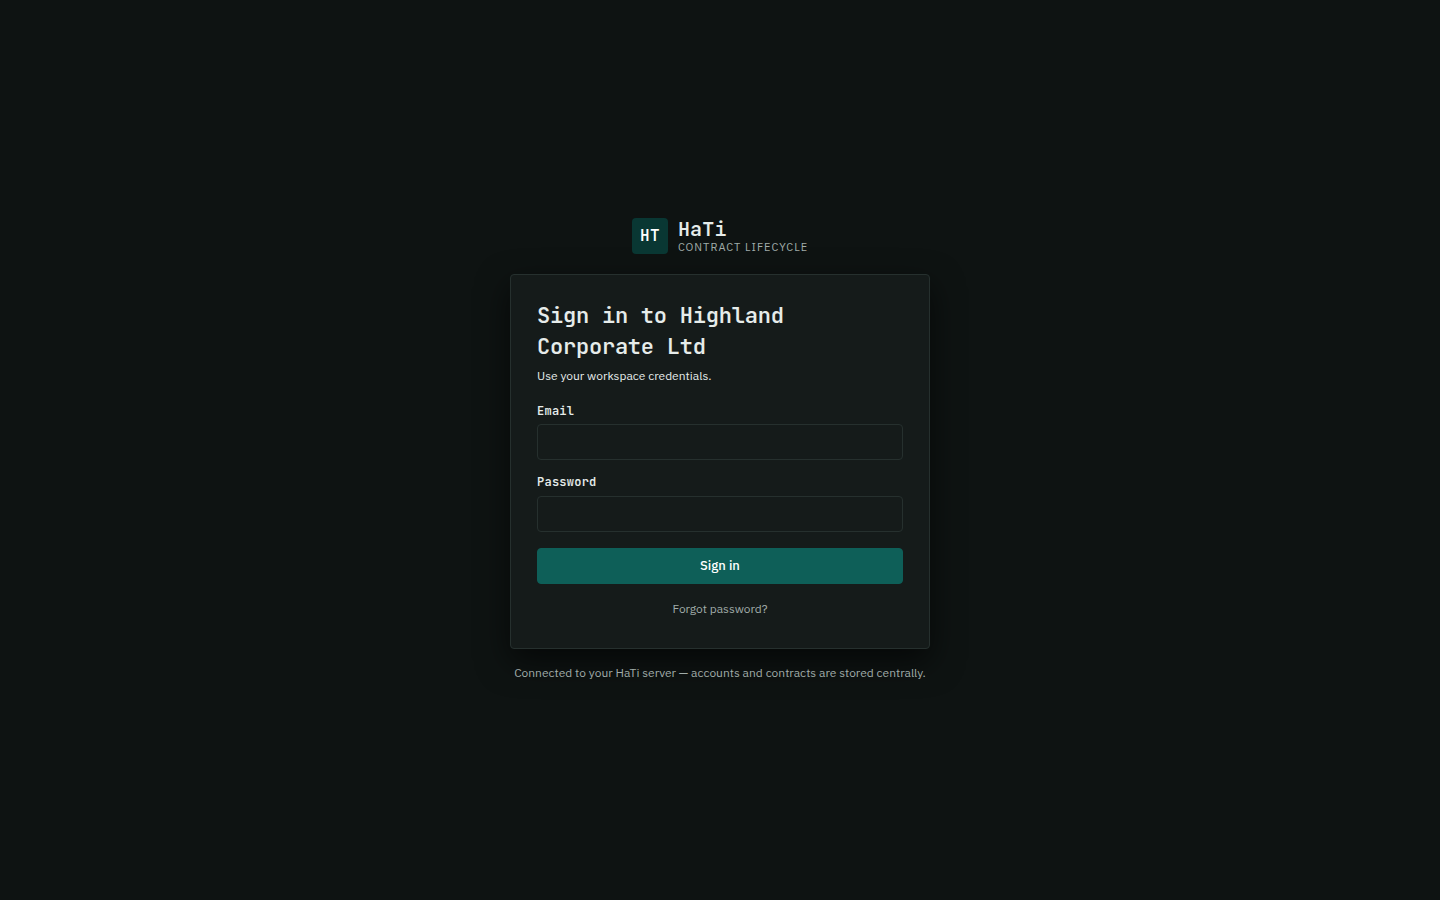
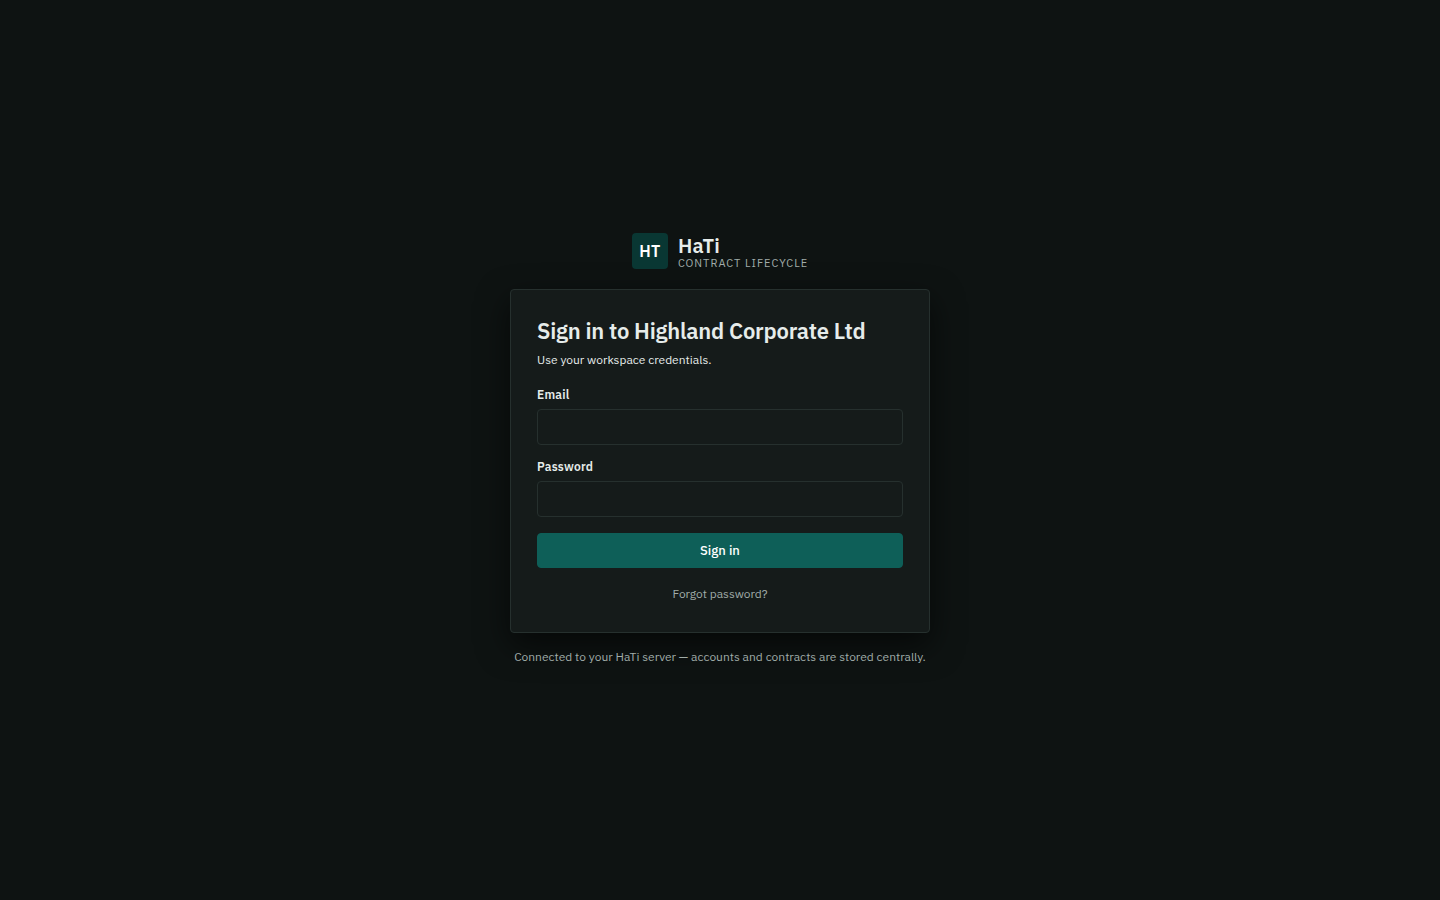
Redesign steps 5–9: the remaining pages take the tokens and the dressing
The negotiate page and the clause editor, the counterparty page, the
Templates book and table, Our standards, Requests, People, the Calendar
(month and horizon), the Obligations worklist, Team & settings and the
six Insights tabs all take the palette, the type ladder, the corners,
the button and tab dressing from the earlier steps; every control on
every one of them is where it was. The Obligations worklist keeps its
layout and behaviour exactly. Insights is design only.

Two things beyond the tokens: the Templates book's library cards wear
their shelf's colour on the same 3px bar the stream cards have always
carried (the owner asked it of the artifact; reverses the 29 Aug "none
on a library card"), and --font-mono — JetBrains Mono now — is for
DATA: the fourteen captions that borrowed it for letter-spacing, the
login page's title and mark and one settings chip read the heading
face instead. Ids, dates, counts, money, links and codes keep the mono.

prototype/redesign-shots/after/ carries every page in both themes, the
negotiate page and the clause editor staged with an ask from each side.

Claude-Session: https://claude.ai/code/session_01MJDqh769WWjqop2BXt8erZ

diff --git a/js/core.js b/js/core.js
@@ -1720,9 +1720,9 @@ function renderAuth(mode){
   <div style="min-height:100vh;display:grid;place-items:center;background:var(--color-bg);padding:var(--s-10) var(--s-4);">
     <div style="width:100%;max-width:420px;">
       <div style="display:flex;align-items:center;gap:10px;justify-content:center;margin-bottom:20px;">
-        <div style="width:36px;height:36px;background:var(--color-accent-800);color:#fff;display:grid;place-items:center;font-family:var(--font-mono);font-weight:var(--w-strong);font-size:var(--t-section);letter-spacing:.02em;border-radius:var(--radius);">HT</div>
+        <div style="width:36px;height:36px;background:var(--color-accent-800);color:#fff;display:grid;place-items:center;font-family:var(--font-heading);font-weight:var(--w-strong);font-size:var(--t-section);letter-spacing:.02em;border-radius:var(--radius);">HT</div>
         <div style="line-height:1.15;">
-          <div style="font-family:var(--font-mono);font-weight:var(--w-strong);font-size:20px;letter-spacing:.01em;color:var(--color-text);">HaTi</div>
+          <div style="font-family:var(--font-heading);font-weight:var(--w-strong);font-size:20px;letter-spacing:.01em;color:var(--color-text);">HaTi</div>
           <div style="font-size:var(--t-micro);letter-spacing:.09em;text-transform:uppercase;color:var(--color-neutral-600);">${i18t('co_clm')}</div>
         </div>
       </div>
@@ -1732,9 +1732,11 @@ function renderAuth(mode){
   </div>`;
   const input=(id,label,type='text',ph='')=>`
     <label style="display:block;margin-bottom:14px;">
-      <span style="display:block;font-size:var(--t-meta);font-weight:var(--w-strong);color:var(--color-neutral-700);margin-bottom:5px;font-family:var(--font-mono);letter-spacing:.02em;">${label}</span>
+      <span style="display:block;font-size:var(--t-meta);font-weight:var(--w-strong);color:var(--color-neutral-700);margin-bottom:5px;font-family:var(--font-heading);letter-spacing:.02em;">${label}</span>
       <input id="${id}" type="${type}" placeholder="${ph}" style="width:100%;min-height:36px;border:1px solid var(--color-divider);background:var(--color-surface);border-radius:var(--radius);padding:7px 11px;font-size:var(--t-body);font-family:var(--font-body);color:var(--color-text);outline:none;"/></label>`;
-  const H1='font-family:var(--font-mono);font-weight:var(--w-strong);font-size:22px;letter-spacing:-0.01em;color:var(--color-text);margin:0;';
+  /* 20 Sep 2026: the heading face — --font-mono is JetBrains Mono now and is
+     for DATA (ids, dates, counts, money), never a title or a caption. */
+  const H1='font-family:var(--font-heading);font-weight:var(--w-strong);font-size:22px;letter-spacing:-0.01em;color:var(--color-text);margin:0;';
   const SUB='font-size:var(--t-meta);color:var(--color-neutral-700);margin:var(--s-1) 0 18px;line-height:1.5;';
   const PBTN='width:100%;padding:9px;font-size:var(--t-body);margin-top:2px;';
   /* min-height is WCAG 2.5.8 (target size, AA): measured at 366x17px, this is
@@ -1757,7 +1759,7 @@ function renderAuth(mode){
            were always the default market's, and a Swedish pilot had to switch
            afterwards and re-read everything it had just been shown. */''}
       <label style="display:block;margin-bottom:14px;">
-        <span style="display:block;font-size:var(--t-meta);font-weight:var(--w-strong);color:var(--color-neutral-700);margin-bottom:5px;font-family:var(--font-mono);letter-spacing:.02em;">${i18t('co_where_you_operate')}</span>
+        <span style="display:block;font-size:var(--t-meta);font-weight:var(--w-strong);color:var(--color-neutral-700);margin-bottom:5px;font-family:var(--font-heading);letter-spacing:.02em;">${i18t('co_where_you_operate')}</span>
         <select id="su-market" style="width:100%;min-height:36px;border:1px solid var(--color-divider);background:var(--color-surface);border-radius:var(--radius);padding:7px 11px;font-size:var(--t-body);font-family:var(--font-body);color:var(--color-text);outline:none;">
           ${jxList().map(p=>`<option value="${p.id}"${p.id===jxId()?' selected':''}>${p.name}</option>`).join('')}
         </select>
@@ -3497,7 +3499,7 @@ function shareAdviseBlockHtml(c, purposeSel){
     : `<p style="margin:6px 0 0;font-size:var(--t-label);color:var(--color-neutral-600);line-height:1.5">${
         esc(i18t('asl_no_clauses'))}</p>`;
   return `<div id="share-advise"${on?'':' class="hidden"'} style="margin:0 0 14px">
-    <span style="display:block;font-size:var(--t-label);font-weight:var(--w-strong);color:var(--color-neutral-700);margin-bottom:2px;font-family:var(--font-mono);letter-spacing:.02em">${
+    <span style="display:block;font-size:var(--t-label);font-weight:var(--w-strong);color:var(--color-neutral-700);margin-bottom:2px;font-family:var(--font-heading);letter-spacing:.02em">${
       esc(i18t('asl_which_clauses'))}</span>
     <div id="share-advise-clauses" style="max-height:168px;overflow:auto">${rows}</div>
     <p style="margin:8px 0 0;font-size:var(--t-label);color:var(--color-neutral-600);line-height:1.5">${
@@ -3526,7 +3528,7 @@ function sharePurposePickerHtml(c, sel, o={}){
         color:${on?'#fff':'var(--color-neutral-700)'};border-radius:var(--radius)">${m.label}</button>`; };
     const m=SHARE_PURPOSE_COPY[sel]||SHARE_PURPOSE_COPY.negotiate;
     return `<div id="share-purpose" style="margin:0 0 14px">
-      <span style="display:block;font-size:var(--t-label);font-weight:var(--w-strong);color:var(--color-neutral-700);margin-bottom:6px;font-family:var(--font-mono);letter-spacing:.02em">${i18t('co_what_round_for')}</span>
+      <span style="display:block;font-size:var(--t-label);font-weight:var(--w-strong);color:var(--color-neutral-700);margin-bottom:6px;font-family:var(--font-heading);letter-spacing:.02em">${i18t('co_what_round_for')}</span>
       ${''/* ---- THE FIFTH PURPOSE SITS BESIDE THE OTHER FOUR (upgrade 9) ----
            18 Sep 2026, built to the drawing. A first pass gave the adviser link
            its own door on the More menu, reasoning that every answer on this
@@ -3551,7 +3553,7 @@ function sharePurposePickerHtml(c, sel, o={}){
       <span style="display:block;font-size:var(--t-label);line-height:1.5;color:var(--color-neutral-600)">${m.blurb}</span>
     </button>`; };
   return `<div id="share-purpose" style="margin:0 0 14px">
-    <span style="display:block;font-size:var(--t-label);font-weight:var(--w-strong);color:var(--color-neutral-700);margin-bottom:6px;font-family:var(--font-mono);letter-spacing:.02em">${i18t('co_what_link_for')}</span>
+    <span style="display:block;font-size:var(--t-label);font-weight:var(--w-strong);color:var(--color-neutral-700);margin-bottom:6px;font-family:var(--font-heading);letter-spacing:.02em">${i18t('co_what_link_for')}</span>
     ${''/* Sign leads: most sends are "here it is, sign it" (Young, 02 Aug
          2026). The default SELECTION still follows the contract's reality —
          defaultSharePurpose keeps Negotiate preselected while changes are
@@ -3586,7 +3588,7 @@ function sharePurposePickerHtml(c, sel, o={}){
    it sits under the recipient, on the two-screen shape where it always was.
    The id stays `sh-summary` so every reader of it is unchanged. */
 function shareNoteBoxHtml(c, hist){
-  return `<label style="display:block"><span id="sh-summary-label" style="display:block;font-size:var(--t-label);font-weight:var(--w-strong);color:var(--color-neutral-700);margin-bottom:var(--s-1);font-family:var(--font-mono);letter-spacing:.02em;">${
+  return `<label style="display:block"><span id="sh-summary-label" style="display:block;font-size:var(--t-label);font-weight:var(--w-strong);color:var(--color-neutral-700);margin-bottom:var(--s-1);font-family:var(--font-heading);letter-spacing:.02em;">${
         hist?i18t('co_note_with_record')
             :i18t('co_note_to', { who:esc(c.counterparty||i18t('co_them')) })}</span>
         <textarea id="sh-summary" rows="3" style="${HATI_FLD}" placeholder="${

diff --git a/js/views/adviceportal.js b/js/views/adviceportal.js
@@ -70,7 +70,7 @@ const advicePortalShell = inner => `
 function renderAdviceIntake(){
   const root=document.getElementById('share-root');
   const inputStyle='width:100%;min-height:36px;border:1px solid var(--color-divider);background:var(--color-surface);border-radius:var(--radius);padding:7px 11px;font-size:var(--t-body);font-family:var(--font-body);color:var(--color-text);outline:none';
-  const field=(id,label,ph,type='text')=>`<label style="display:block;margin-bottom:10px"><span style="display:block;font-size:var(--t-label);font-weight:var(--w-strong);color:var(--color-neutral-700);margin-bottom:var(--s-1);font-family:var(--font-mono);letter-spacing:.02em">${label}</span><input id="${id}" type="${type}" placeholder="${ph}" style="${inputStyle}"/></label>`;
+  const field=(id,label,ph,type='text')=>`<label style="display:block;margin-bottom:10px"><span style="display:block;font-size:var(--t-label);font-weight:var(--w-strong);color:var(--color-neutral-700);margin-bottom:var(--s-1);font-family:var(--font-heading);letter-spacing:.02em">${label}</span><input id="${id}" type="${type}" placeholder="${ph}" style="${inputStyle}"/></label>`;
   const svcCard=s=>{
     const r=adviceRateFor(s.id);
     return `
@@ -103,7 +103,7 @@ function renderAdviceIntake(){
         ${field('ap-email','Work email *','you@company.co.ke','email')}
         ${field('ap-company','Company','e.g. Tamu Beverages Ltd')}
         ${field('ap-contract','Contract concerned','e.g. Distribution Agreement — Coast Region')}
-        <label style="display:block;margin-bottom:var(--s-3)"><span style="display:block;font-size:var(--t-label);font-weight:var(--w-strong);color:var(--color-neutral-700);margin-bottom:var(--s-1);font-family:var(--font-mono);letter-spacing:.02em">${i18t('apo_describe')}</span>
+        <label style="display:block;margin-bottom:var(--s-3)"><span style="display:block;font-size:var(--t-label);font-weight:var(--w-strong);color:var(--color-neutral-700);margin-bottom:var(--s-1);font-family:var(--font-heading);letter-spacing:.02em">${i18t('apo_describe')}</span>
           <textarea id="ap-desc" rows="4" placeholder="${esc(i18t('po_ph_advice_example'))}" style="${inputStyle}min-height:0"></textarea></label>
         <label style="display:flex;align-items:flex-start;gap:9px;font-size:var(--t-meta);color:var(--color-neutral-700);margin-bottom:14px;line-height:1.45"><input id="ap-priority" type="checkbox" style="width:15px;height:15px;accent-color:var(--color-accent);margin-top:1px"/><span><strong>${i18t('apo_priority')}</strong> ${i18t('apo_priority_note')}</span></label>
         <button id="ap-go" class="ui-btn ui-btn-primary" style="width:100%;padding:10px;font-size:var(--t-body)">${icon('send','w-4 h-4')} Submit request</button>

diff --git a/js/views/library.js b/js/views/library.js
@@ -2009,8 +2009,19 @@ function tplOverviewData(){
      which is exactly how the table's own stream filter behaves, and the two
      agreeing is the property that matters. */
   const bucket=(sec,key,id,tone,own)=>({ sec, key, id, tone, ...tplOvRoll(own) });
+  /* A LIBRARY CARD WEARS ITS SHELF'S COLOUR (Young asked it of the artifact,
+     20 Sep 2026: "Add color to the top of ... your Library cards in the
+     templates tab", and the redesign order builds to that artifact). The
+     stream cards have always carried the stream's own colour on the same 3px
+     bar; the shelves take the product's own tones — the accent for the
+     company's paper, amber for the other side's, steel for HaTi's, the
+     Marketing stream's violet for the samples, the page ink for the whole
+     shelf — read from tokens where a token exists. Reverses the 29 Aug "none
+     on a library card" on the owner's later word. */
+  const LIB_TONE={ company:'var(--accent-solid)', cp:'var(--st-amber-dot)', builtin:'var(--st-steel-dot)',
+    sample:(typeof FOLDERS==='object'&&FOLDERS&&FOLDERS.mktg&&FOLDERS.mktg.color)||'var(--color-neutral-500)', all:'var(--color-text)' };
   const buckets=[
-    ...TPL_OV_LIBS.map(k=>bucket('library', k, k, null,
+    ...TPL_OV_LIBS.map(k=>bucket('library', k, k, LIB_TONE[k]||null,
       k==='all' ? cards : cards.filter(c=>c.kind===k))),
     ...(typeof FOLDERS==='object' && FOLDERS ? Object.values(FOLDERS) : [])
       .map(f=>bucket('stream', 'stream:'+f.id, f.id,
@@ -2241,7 +2252,7 @@ function tplHealthHtml(d){
    markup is exactly how two screens come to disagree about what a bucket's
    figures are — THE CLOTHES FOLLOW THE BUILDER. Lifted whole, not rewritten:
    every declaration and every note below is the wall's own. */
-const TPL_OV_CARD='background:var(--color-surface);border:1px solid var(--color-divider);border-radius:var(--radius);box-shadow:var(--shadow-sm)';
+const TPL_OV_CARD='background:var(--color-surface);border:1px solid var(--color-divider);border-radius:var(--radius-lg,var(--radius));box-shadow:var(--shadow-sm)';
 const TPL_OV_HEAD='font-size:var(--t-micro);font-weight:var(--w-title);letter-spacing:.09em;text-transform:uppercase;color:var(--color-neutral-600)';
 const TPL_OV_LBL='font-size:var(--t-label);font-weight:var(--w-body);color:var(--color-neutral-600);line-height:1.45';
 const TPL_OV_FIG='font-size:var(--t-card);font-weight:var(--w-title);font-variant-numeric:tabular-nums;line-height:1.3;margin-top:1px';

diff --git a/js/wizard.js b/js/wizard.js
@@ -340,7 +340,7 @@ function openWizard(preTid, prefill){
       if(!m || String(m).trim().toLowerCase()===String(v.label||'').trim().toLowerCase()) return '';
       return `<span style="font-weight:var(--w-body);color:var(--color-neutral-500);text-transform:none;letter-spacing:0"> → ${m}</span>`; };
     const input=v=>{ const id='wz-'+String(v.key).replace(/[:]/g,'_');
-      const lbl=`<span style="display:block;font-size:var(--t-label);font-weight:var(--w-strong);color:var(--color-neutral-700);margin-bottom:var(--s-1);font-family:var(--font-mono);letter-spacing:.02em;">${v.label}${v.required?' <span style="color:var(--st-ruby-fg)">*</span>':''}${mapNote(v)}</span>`;
+      const lbl=`<span style="display:block;font-size:var(--t-label);font-weight:var(--w-strong);color:var(--color-neutral-700);margin-bottom:var(--s-1);font-family:var(--font-heading);letter-spacing:.02em;">${v.label}${v.required?' <span style="color:var(--st-ruby-fg)">*</span>':''}${mapNote(v)}</span>`;
       /* ---- A VALUE STREAM IS DRAWN BY THE PRODUCT'S OWN LIST (18 Sep 2026)
          ---- folderOptionsHtml carries the "+ New value stream" sentinel and
          bindFolderSelect answers it, so this door offers what every other
@@ -374,7 +374,7 @@ function openWizard(preTid, prefill){
                Send. Three times for one fact, in one sitting. Once it is on the
                contract the strip never appears and the send goes straight out. */}
         <label style="display:block;">
-          <span style="display:block;font-size:var(--t-label);font-weight:var(--w-strong);color:var(--color-neutral-700);margin-bottom:var(--s-1);font-family:var(--font-mono);letter-spacing:.02em;">${i18t('wz_their_email')}</span>
+          <span style="display:block;font-size:var(--t-label);font-weight:var(--w-strong);color:var(--color-neutral-700);margin-bottom:var(--s-1);font-family:var(--font-heading);letter-spacing:.02em;">${i18t('wz_their_email')}</span>
           <input id="wz-cpemail" type="email" placeholder="${(typeof jxEg==='function'&&jxEg('theirEmail'))||'them@company.co.ke'}" style="width:100%;min-height:36px;border:1px solid var(--color-divider);background:var(--color-surface);border-radius:var(--radius);padding:7px 11px;font-size:var(--t-body);font-family:var(--font-body);color:var(--color-text);outline:none;"/></label>
       </div>
       ${_pv?fillPreviewPaneHtml(vars.filter(v=>!String(v.def||'').trim()).length):''}

diff --git a/js/views/portal.js b/js/views/portal.js
@@ -3598,7 +3598,7 @@ function renderSharePortal(p, opts={}){
   if(c.templateForm && !portalExecuted() && /\{\{/.test(String(c.redlineText||'')) && window.templateFormDocHtml)
     c.redlineText=templateFormDocHtml(c.templateForm);
   const input=(id,label,ph)=>`
-    <label style="display:block;margin-bottom:10px;"><span style="display:block;font-size:var(--t-label);font-weight:var(--w-strong);color:var(--color-neutral-700);margin-bottom:var(--s-1);font-family:var(--font-mono);letter-spacing:.02em;">${label}</span>
+    <label style="display:block;margin-bottom:10px;"><span style="display:block;font-size:var(--t-label);font-weight:var(--w-strong);color:var(--color-neutral-700);margin-bottom:var(--s-1);font-family:var(--font-heading);letter-spacing:.02em;">${label}</span>
     <input id="${id}" type="text" placeholder="${ph}" style="width:100%;min-height:36px;border:1px solid var(--color-divider);background:var(--color-surface);border-radius:var(--radius);padding:7px 11px;font-size:var(--t-body);font-family:var(--font-body);color:var(--color-text);outline:none;"/></label>`;
   const TA='width:100%;border:1px solid var(--color-divider);background:var(--color-surface);border-radius:var(--radius);padding:var(--s-2) 11px;font-size:var(--t-body);font-family:var(--font-body);color:var(--color-text);outline:none;';
   root.innerHTML=`
@@ -3676,7 +3676,7 @@ function renderSharePortal(p, opts={}){
         ${input('pt-name','Full name *','e.g. Grace Njeri')}
         ${input('pt-title','Title / role','e.g. Legal Counsel')}
         ${input('pt-email','Work email','you@company.co.ke')}
-        <label style="display:block;margin-bottom:var(--s-3);"><span style="display:block;font-size:var(--t-label);font-weight:var(--w-strong);color:var(--color-neutral-700);margin-bottom:var(--s-1);font-family:var(--font-mono);letter-spacing:.02em;">${i18t('po_comment')}</span>
+        <label style="display:block;margin-bottom:var(--s-3);"><span style="display:block;font-size:var(--t-label);font-weight:var(--w-strong);color:var(--color-neutral-700);margin-bottom:var(--s-1);font-family:var(--font-heading);letter-spacing:.02em;">${i18t('po_comment')}</span>
         <textarea id="pt-comment" rows="3" placeholder="${i18t('po_optional_for_signing')}" style="${TA}"></textarea></label>
         ${''/* ---- "PROPOSE A DIFFERENT VALUE" IS GONE (removed 2026-08-11, on
                request, for every contract) ----

diff --git a/js/views/settings.js b/js/views/settings.js
@@ -4220,7 +4220,7 @@ function renderPlaybookView(){
     <div style="margin-bottom:${baseline?'12px':'8px'};border:1px solid ${baseline?'var(--color-accent-300)':'var(--color-divider)'};border-left:3px solid ${baseline?'var(--color-accent)':'var(--color-divider)'};border-radius:var(--radius);background:${baseline?'var(--color-accent-100)':'var(--color-surface)'};padding:${baseline?'11px 13px':'10px 12px'}">
       <div style="display:flex;align-items:center;gap:var(--s-2);margin-bottom:${baseline?'2px':'6px'}">
         <span style="font-size:var(--t-meta);font-weight:${baseline?700:600};color:${baseline?'var(--color-accent-900)':'var(--color-text)'}">${PB_ESC(label)}</span>
-        ${baseline?`<span style="font-size:var(--t-figure);font-family:var(--font-mono);letter-spacing:.06em;text-transform:uppercase;font-weight:var(--w-title);color:#fff;background:var(--color-accent);border-radius:var(--radius);padding:2px var(--s-2)">${i18t('set_applies_all')}</span>`:''}
+        ${baseline?`<span style="font-size:var(--t-figure);font-family:var(--font-heading);letter-spacing:.06em;text-transform:uppercase;font-weight:var(--w-title);color:#fff;background:var(--color-accent);border-radius:var(--radius);padding:2px var(--s-2)">${i18t('set_applies_all')}</span>`:''}
         ${canEditPb?`<span style="margin-left:auto;display:flex;gap:10px;font-size:var(--t-label);font-weight:var(--w-strong)">
           <button data-pb-edit="${key}" style="background:none;border:0;cursor:pointer;color:var(--accent-ink-700)">${i18t('set_edit_lower')}</button>
           ${removable?`<button data-pb-del="${key}" style="background:none;border:0;cursor:pointer;color:var(--st-ruby-dot)">${i18t('set_remove_lower')}</button>`:''}

diff --git a/js/signature.js b/js/signature.js
@@ -70,7 +70,7 @@ function openSignaturePad(opts={}){
           </div>
           <p style="font-size:var(--t-meta);color:${N6};margin:6px 0 var(--s-3);line-height:1.5;">${i18t('si_draw_type_upload')}</p>
           <div id="sig-tabs" style="display:flex;gap:var(--s-1);border-bottom:1px solid ${C};">
-            ${['draw','type','upload'].map((k,i)=>`<button data-sig-tab="${k}" style="flex:0 0 auto;padding:var(--s-2) 14px;font:inherit;font-size:var(--t-body);font-weight:var(--w-strong);font-family:var(--font-mono);letter-spacing:.02em;cursor:pointer;background:none;border:0;border-bottom:2px solid transparent;color:${N6};">${k==='draw'?'✎ Draw':k==='type'?'⌨ Type':'⭱ Upload'}</button>`).join('')}
+            ${['draw','type','upload'].map((k,i)=>`<button data-sig-tab="${k}" style="flex:0 0 auto;padding:var(--s-2) 14px;font:inherit;font-size:var(--t-body);font-weight:var(--w-strong);font-family:var(--font-heading);letter-spacing:.02em;cursor:pointer;background:none;border:0;border-bottom:2px solid transparent;color:${N6};">${k==='draw'?'✎ Draw':k==='type'?'⌨ Type':'⭱ Upload'}</button>`).join('')}
             ${saved?`<button data-sig-tab="saved" style="margin-left:auto;padding:var(--s-2) 14px;font:inherit;font-size:var(--t-body);font-weight:var(--w-strong);font-family:var(--font-mono);cursor:pointer;background:none;border:0;border-bottom:2px solid transparent;color:${N6};">★ Saved</button>`:''}
           </div>
         </div>

diff --git a/js/views/negotiation-css.js b/js/views/negotiation-css.js
@@ -2783,7 +2783,7 @@ function redlineLayoutCss(){
   .redline-page .rl-askrv-bd{flex:1;min-width:0;padding-left:calc(9px * var(--doc-scale,1))}
   .redline-page .rl-askrv-who{display:block;font-size:calc(11px * var(--doc-scale,1));
     color:var(--color-neutral-600);margin-bottom:calc(4px * var(--doc-scale,1))}
-  .redline-page .rl-askrv-who b{color:var(--color-neutral-700);font-family:var(--font-mono);letter-spacing:.02em}
+  .redline-page .rl-askrv-who b{color:var(--color-neutral-700);font-family:var(--font-heading);letter-spacing:.02em}
   .redline-page .rl-askrv-wd{font-size:calc(13px * var(--doc-scale,1));line-height:1.6}
   .redline-page .rl-askrv-why{display:block;margin-top:calc(5px * var(--doc-scale,1));
     font-size:calc(12px * var(--doc-scale,1));color:var(--st-ruby-fg);font-style:italic}
